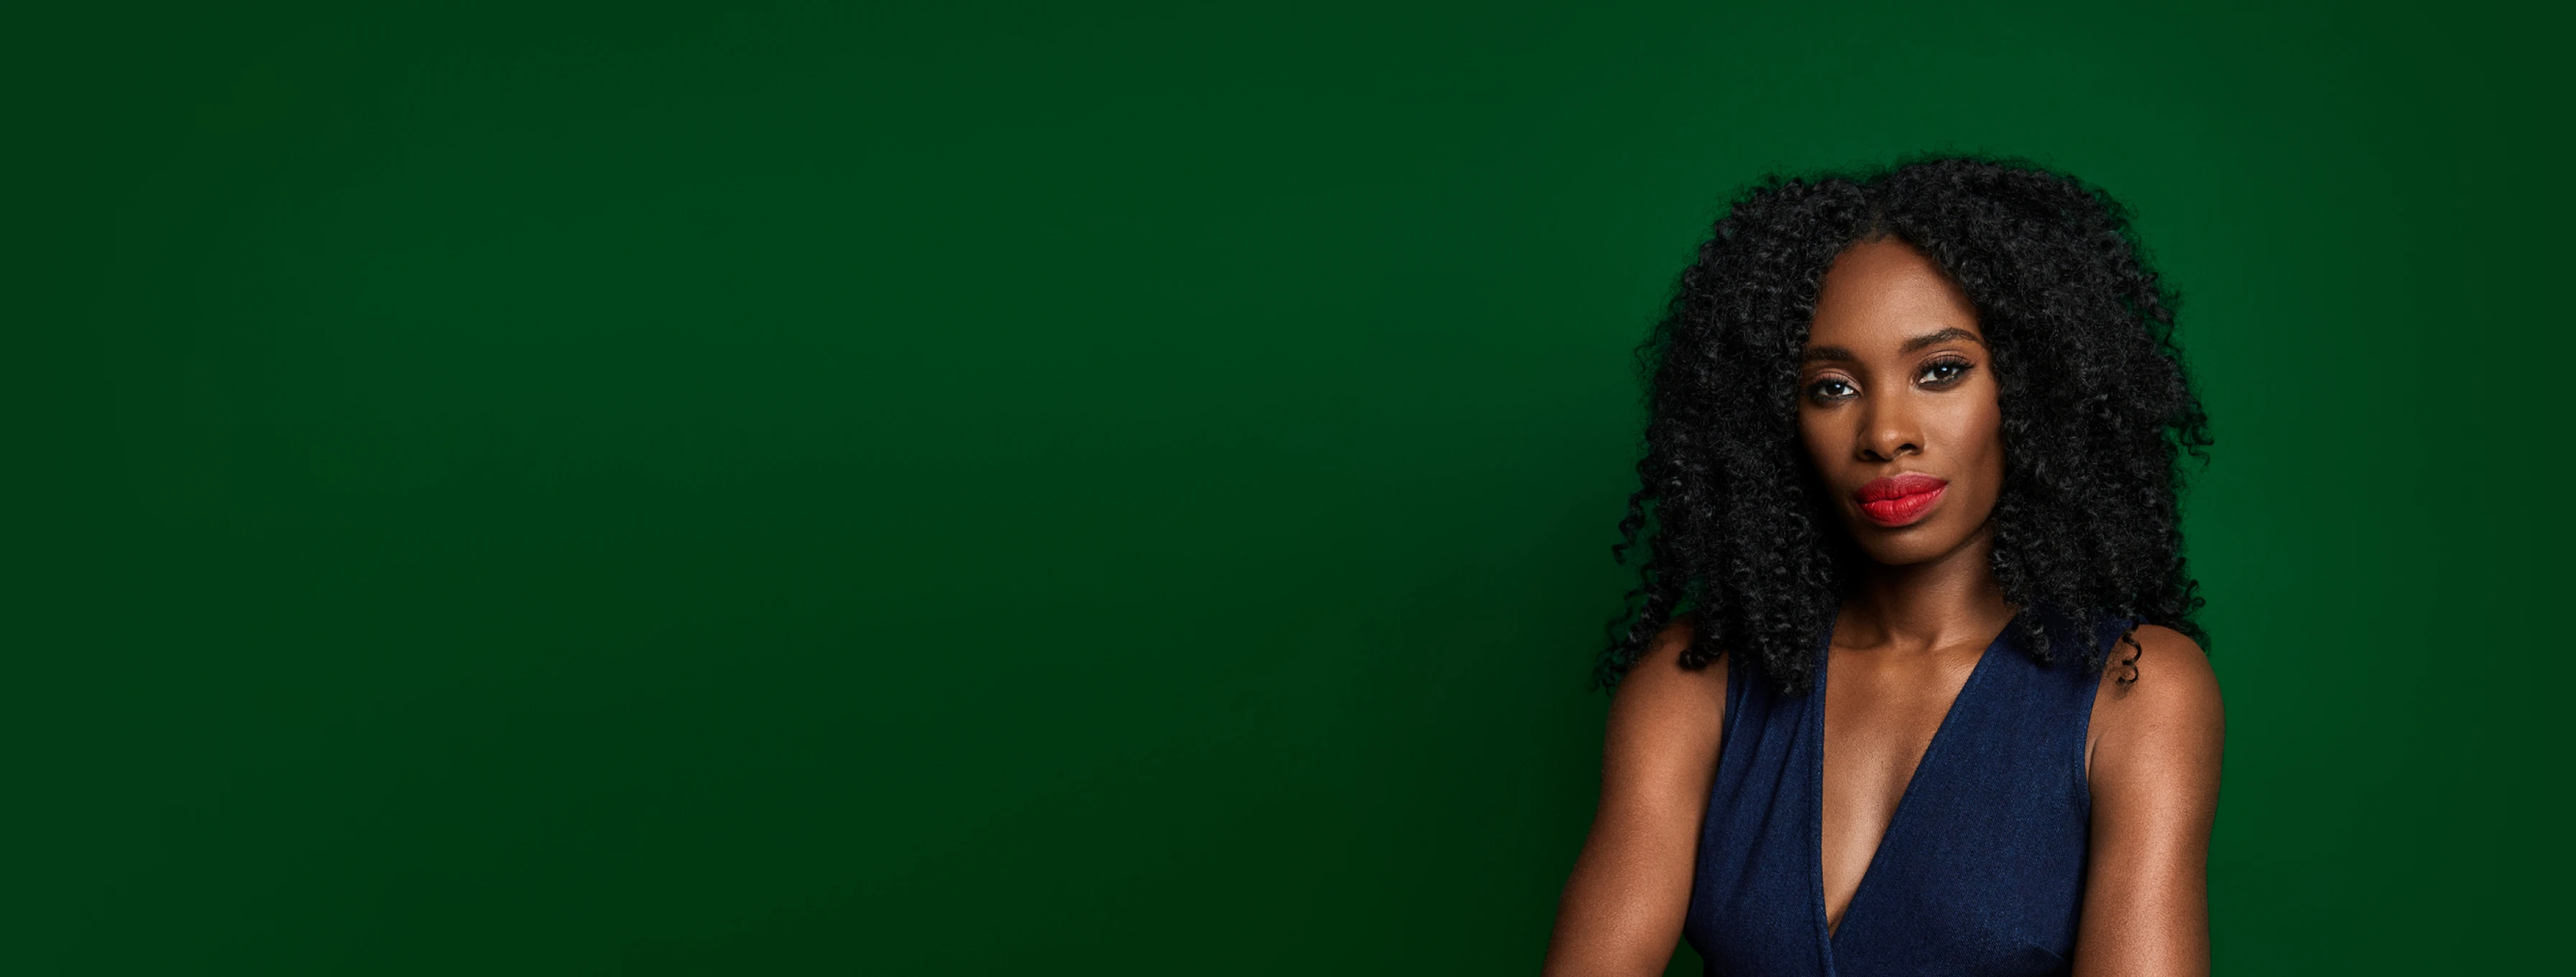
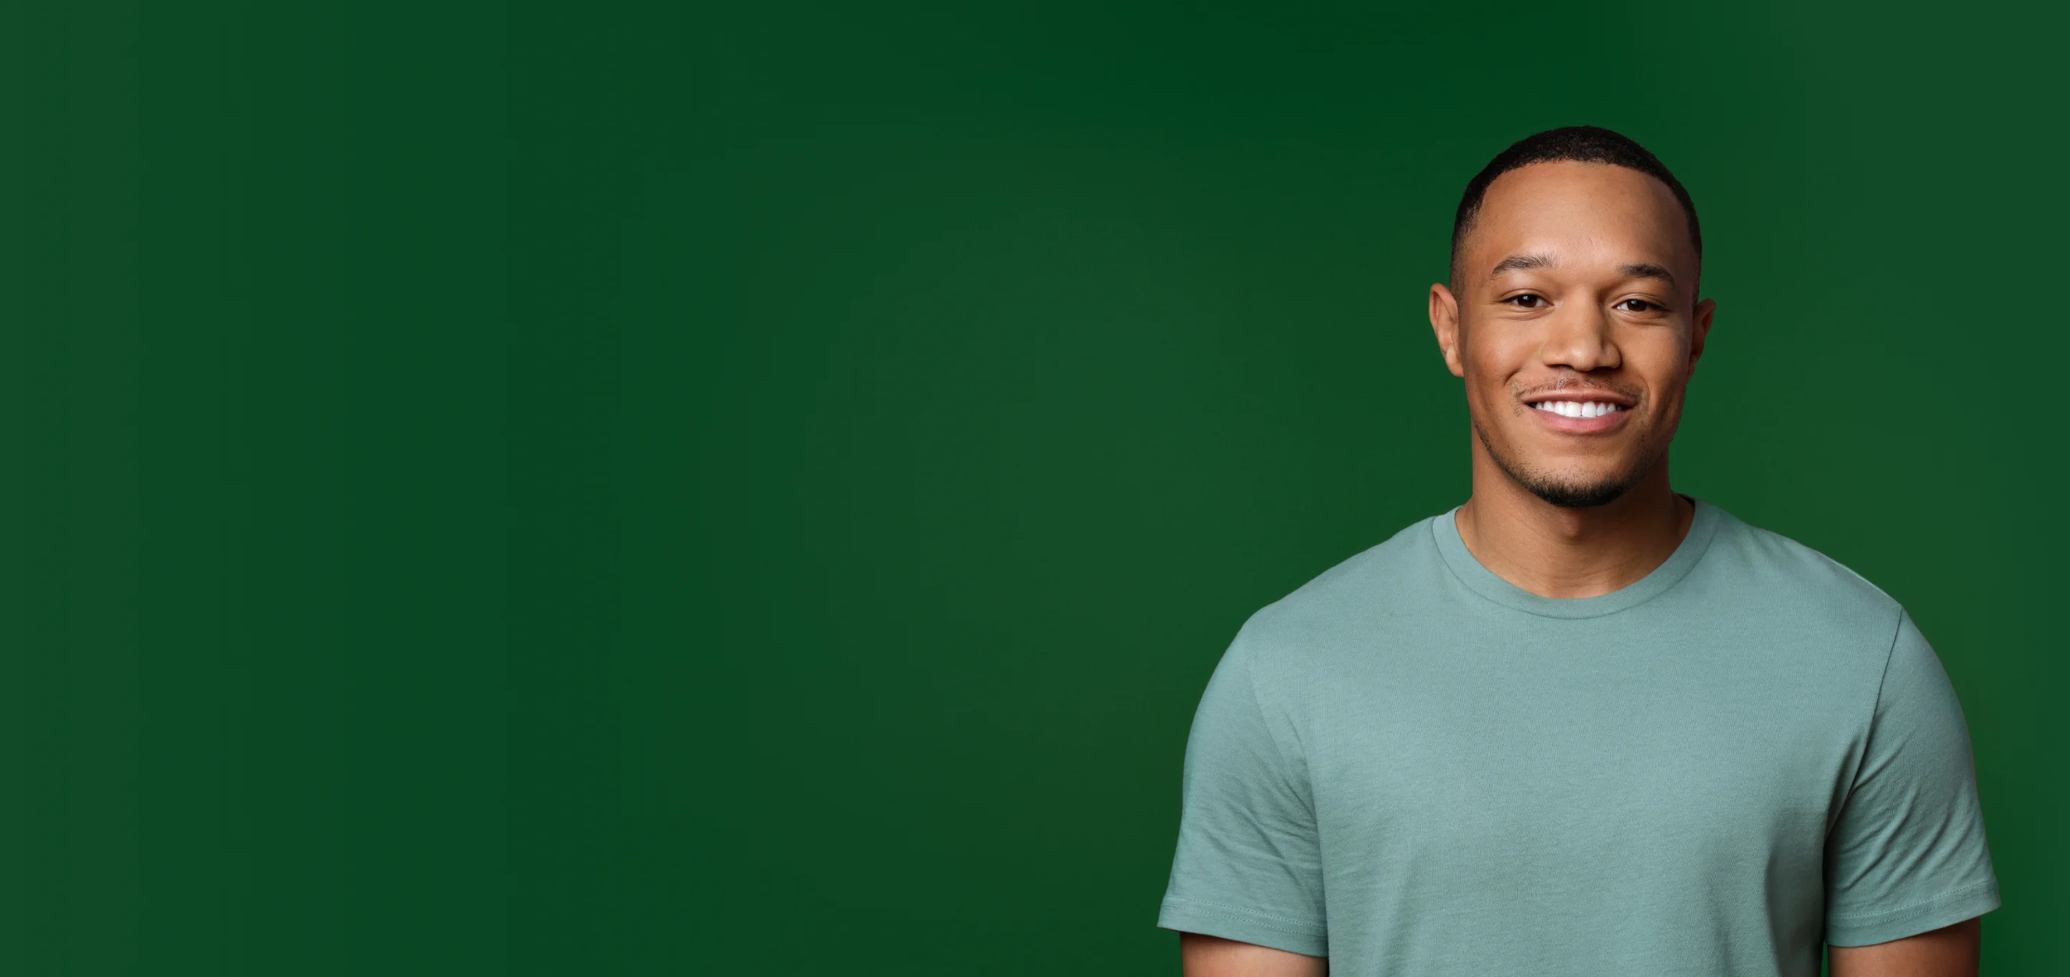
fix header

Changed region(s): [[0.5312, 0.1235, 0.9688, 1.0]]

diff --git a/src/Components/Header/Header.jsx b/src/Components/Header/Header.jsx
@@ -1,16 +1,25 @@
-import React, { useState } from "react";
+import React, { useEffect, useState } from "react";
 
 import "./Header.scss";
 import { NavLink } from "react-router-dom";
-import { useSelector } from "react-redux";
+import { useDispatch, useSelector } from "react-redux";
 import { Dropdown } from "antd";
-import { xoaTatCaDuLieuLocal } from "../../utils/localStore";
+import { layDuLieuLocal, xoaTatCaDuLieuLocal } from "../../utils/localStore";
+import { congViecServ } from "../../services/congViecServices";
+import { getAllUser } from "../../redux/slices/nguoiDungSlice";
 
 const Header = (props) => {
   const [color, setColor] = useState(false);
+  const [typeJobMenu, setTypeJobMenu] = useState([]);
 
-  const { hoTen } = useSelector((state) => state.nguoiDung);
-  const role = hoTen?.role ?? "";
+  const { users } = useSelector((state) => state.nguoiDung);
+  const dispatch = useDispatch();
+  const currentUserId = layDuLieuLocal("userId");
+
+  const userDetail = users.find(({ id }) => id === currentUserId);
+  const role = userDetail?.role ?? "";
+  console.log("userDetail: ", userDetail);
+  console.log("currentUserId: ", currentUserId);
 
   const changeColor = () => {
     if (window.scrollY >= 90) {
@@ -24,6 +33,17 @@ const Header = (props) => {
   const handleClickLogout = () => {
     xoaTatCaDuLieuLocal();
   };
+
+  useEffect(() => {
+    congViecServ
+      .layMenuLoaiCongViec()
+      .then((res) => setTypeJobMenu(res.data.content ?? []))
+      .catch((err) => console.log("error: ", err));
+  }, []);
+
+  useEffect(() => {
+    dispatch(getAllUser());
+  }, [dispatch]);
 
   const items = [
     {
@@ -44,7 +64,7 @@ const Header = (props) => {
     },
     {
       label:
-        role == "ADMIN" ? (
+        role === "ADMIN" ? (
           <NavLink to={"/admin"} className="text-lg ">
             <span className="text-red-600">ADMIN</span>
           </NavLink>
@@ -82,7 +102,7 @@ const Header = (props) => {
           </a>
           <div className="flex justify-center items-center gap-2">
             <div className="flex items-center md:order-2">
-              {hoTen ? (
+              {userDetail ? (
                 <Dropdown
                   menu={{
                     items,
@@ -91,7 +111,7 @@ const Header = (props) => {
                   <div className=" text-xl">
                     <i className="fa-solid fa-circle-user ml-2" />
                     <span className="font-bold text-md ml-2"></span>
-                    {hoTen?.name}
+                    {userDetail?.name}
                   </div>
                 </Dropdown>
               ) : (
@@ -194,129 +214,29 @@ const Header = (props) => {
         }`}
       >
         <ul className="flex flex-col mt-4 font-light md:flex-row md:space-x-8 md:mt-0">
-          <li className="nav2-item">
-            <NavLink className="nav-link">Graphics & Design</NavLink>
-            <ul className="nav2-dropdown">
-              <p className="font-bold">Graphics</p>
-              <li>
-                <NavLink className="font-light">
-                  Social Media Advertising
-                </NavLink>
-              </li>
-              <li>
-                <NavLink className="font-light">Video Editing</NavLink>
-              </li>
-              <li>
-                <NavLink className="font-light">Visual Effects</NavLink>
-              </li>
-            </ul>
-          </li>
-          <li className="nav2-item">
-            <NavLink className="nav-link">Digital Marketing</NavLink>
-            <ul className="nav2-dropdown">
-              <p className="font-bold">Marketing</p>
-              <li>
-                <NavLink className="font-light">
-                  Social Media Advertising
-                </NavLink>
-              </li>
-              <li>
-                <NavLink className="font-light">Visual Effects</NavLink>
-              </li>
-            </ul>
-          </li>
-          <li className="nav2-item">
-            <NavLink className="nav-link">Writing & Translation</NavLink>
-            <ul className="nav2-dropdown">
-              <p className="font-bold">Writing</p>
-              <li>
-                <NavLink className="font-light">Visual Effects</NavLink>
-              </li>
-              <li>
-                <NavLink className="font-light">Songwriters</NavLink>
-              </li>
-              <li>
-                <p className="font-bold">Translation</p>
-              </li>
-              <li>
-                <NavLink className="font-light">Video Editing</NavLink>
-              </li>
-              <li>
-                <NavLink className="font-light">Producers & Composers</NavLink>
-              </li>
-            </ul>
-          </li>
-          <li className="nav2-item">
-            <NavLink className="nav-link">Video & Animation</NavLink>
-            <ul className="nav2-dropdown">
-              <p className="font-bold">Social & Marketing Videos</p>
-              <li>
-                <NavLink className="font-light">Short Video Ads</NavLink>
-              </li>
-              <li>
-                <NavLink className="font-light">Social Media Videos</NavLink>
-              </li>
-              <p className="font-bold">Video Editing & Post-Production</p>
-              <li>
-                <NavLink className="font-light">Video Editing</NavLink>
-              </li>
-              <li>
-                <NavLink className="font-light">Visual Effects</NavLink>
-              </li>
-              <p className="font-bold">Media</p>
-              <li>
-                <NavLink className="font-light">Social Media Videos</NavLink>
-              </li>
-              <li>
-                <NavLink className="font-light">Video Editing</NavLink>
-              </li>
-            </ul>
-          </li>
-          <li className="nav2-item">
-            <NavLink className="nav-link">Music & Audio</NavLink>
-            <ul className="nav2-dropdown">
-              <p className="font-bold">Music Production & Writing</p>
-              <li>
-                <NavLink className="font-light">Producers & Composers</NavLink>
-              </li>
-              <li>
-                <NavLink className="font-light">Songwriters</NavLink>
-              </li>
-              <p className="font-bold">Beat Productions</p>
-              <li>
-                <NavLink className="font-light">Articles & Blog Posts</NavLink>
-              </li>
-            </ul>
-          </li>
-          <li className="nav2-item">
-            <NavLink className="nav-link">Programing & Tech</NavLink>
-            <ul className="nav2-dropdown">
-              <p className="font-bold">Graphics</p>
-              <li>
-                <NavLink className="font-light">
-                  Social Media Advertising
-                </NavLink>
-              </li>
-              <li>
-                <NavLink className="font-light">Video Editing</NavLink>
-              </li>
-              <li>
-                <NavLink className="font-light">Visual Effects</NavLink>
-              </li>
-            </ul>
-          </li>
-          <li className="nav2-item">
-            <NavLink className="nav-link">Javascriptest</NavLink>
-            <ul className="nav2-dropdown">
-              <p className="font-bold">Javascriptest</p>
-              <li>
-                <NavLink className="font-light">Video Editing</NavLink>
-              </li>
-              <li>
-                <NavLink className="font-light">Visual Effects</NavLink>
-              </li>
-            </ul>
-          </li>
+          {typeJobMenu?.map(({ tenLoaiCongViec, id, dsNhomChiTietLoai }) => (
+            <li key={id} className="nav2-item">
+              <NavLink className="nav-link">{tenLoaiCongViec}</NavLink>
+              {dsNhomChiTietLoai.length > 0 && (
+                <ul className="nav2-dropdown">
+                  {dsNhomChiTietLoai?.map(({ id, tenNhom, dsChiTietLoai }) => (
+                    <li key={id} className="font-bold">
+                      {tenNhom}
+                      <ul>
+                        {dsChiTietLoai?.map(({ id, tenChiTiet }) => (
+                          <li key={id} className="item-detail">
+                            <NavLink className="font-light">
+                              {tenChiTiet}
+                            </NavLink>
+                          </li>
+                        ))}
+                      </ul>
+                    </li>
+                  ))}
+                </ul>
+              )}
+            </li>
+          ))}
         </ul>
       </div>
     </div>

diff --git a/src/Components/Banner/Banner.jsx b/src/Components/Banner/Banner.jsx
@@ -9,22 +9,27 @@ const Banner = () => {
     {
       order: 0,
       class: "hero-bannerImg1",
+      name: "jordan",
     },
     {
       order: 1,
       class: "hero-bannerImg2",
+      name: "christina",
     },
     {
       order: 2,
       class: "hero-bannerImg3",
+      name: "scarlett",
     },
     {
       order: 3,
       class: "hero-bannerImg4",
+      name: "colin",
     },
     {
       order: 4,
       class: "hero-bannerImg5",
+      name: "jenny",
     },
   ];
 
@@ -48,11 +53,11 @@ const Banner = () => {
               } hero-background`}
             >
               <div className="brand flex justify-center items-center gap-2">
-                <div className="img border rounded-full">
+                <div className="img border rounded-full  overflow-hidden">
                   <img
-                    className="w-full h-full overflow-hidden"
-                    srcSet="https://fiverr-res.cloudinary.com/q_auto,f_auto,w_40,dpr_1.0/v1/attachments/generic_asset/asset/7539ee9d7a6ab02e3d23069ebefb32c8-1690386499432/colin-2x.png 1x, https://fiverr-res.cloudinary.com/q_auto,f_auto,w_40,dpr_2.0/v1/attachments/generic_asset/asset/7539ee9d7a6ab02e3d23069ebefb32c8-1690386499432/colin-2x.png 2x"
-                    src="https://fiverr-res.cloudinary.com/q_auto,f_auto,w_40,dpr_1.0/v1/attachments/generic_asset/asset/7539ee9d7a6ab02e3d23069ebefb32c8-1690386499432/colin-2x.png"
+                    className="w-full h-full"
+                    // src="https://fiverr-res.cloudinary.com/q_auto,f_auto,w_40,dpr_1.0/v1/attachments/generic_asset/asset/7539ee9d7a6ab02e3d23069ebefb32c8-1690386499432/colin-2x.png"
+                    src={`/images/${item.name}.png`}
                     alt="Colin"
                   />
                 </div>

diff --git a/src/Components/FormUserProfile/FormUserProfile.jsx b/src/Components/FormUserProfile/FormUserProfile.jsx
@@ -37,13 +37,13 @@ const FormUserProfile = () => {
                 </h1>
                 <div className="text-lg font-bold">
                   Your display name{" "}
-                  <span className="text-sm mx-3">
+                  <span className="text-sm mx-3" onClick={showModal}>
                     <i class="fa-solid fa-pen"></i>
                   </span>
                   <span className="status">{userDetail?.role}</span>
                 </div>
                 <div className="name text-gray-500">{userDetail?.email}</div>
-                <span className="text-sm">
+                <span className="text-sm" onClick={showModal}>
                   <i class="fa-solid fa-pen"></i>
                 </span>
                 <span className="status online">online</span>

diff --git a/src/services/congViecServices.jsx b/src/services/congViecServices.jsx
@@ -29,4 +29,8 @@ export const congViecServ = {
   layCongViecChiTiet: (id) => {
     return https.get(`/api/cong-viec/lay-cong-viec-chi-tiet/${id}`);
   },
+
+  layMenuLoaiCongViec: () => {
+    return https.get("/api/cong-viec/lay-menu-loai-cong-viec");
+  },
 };

diff --git a/src/Components/Header/Header.scss b/src/Components/Header/Header.scss
@@ -50,7 +50,7 @@
         padding: 20px 20px 20px 40px;
         width: 350px;
         transition: all ease 0.5s;
-        li:hover {
+        li.item-detail:hover {
           color: #1dbf73;
         }
       }
